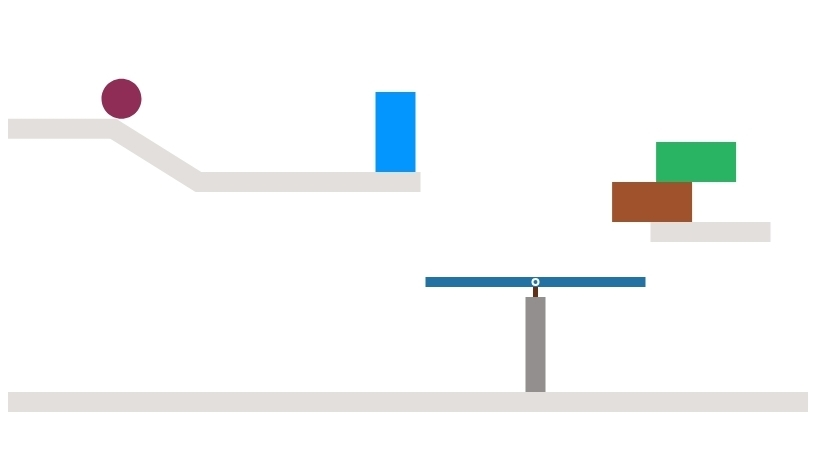
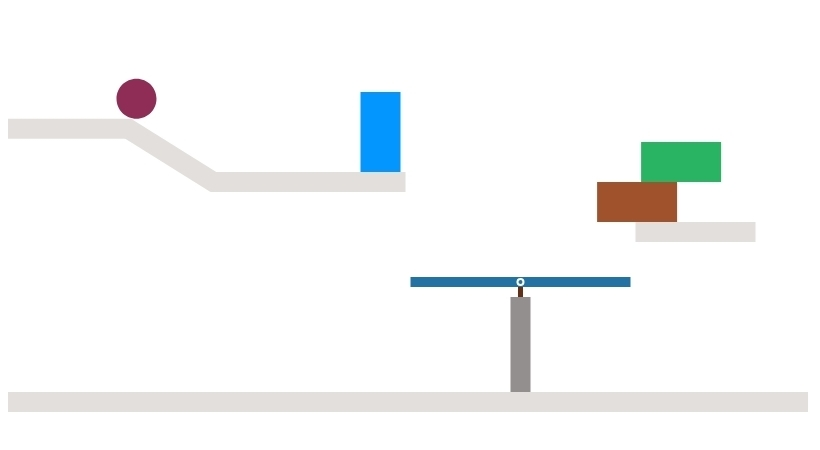
final updates grammar, fixed because of space clickable colors reduced to one if other already used instructions updated included color vision task

diff --git a/03_custom_views_templates.js b/03_custom_views_templates.js
@@ -213,11 +213,6 @@ const fridge_generator = {
         })
         .join('')
     }
-    let wordArray1 = ["maybe", "likely", "probably", "only", "rather"]
-    let wordArray2 = ["not", "neither", "nor", "no", "won't", "but"]
-    let wordArray3 = ["if", "and", "or", "to", "due to", "because of", "the"]
-    let wordArray4 = ["block", "blocks", "green", "blue", "red", "yellow", "both"]
-    let wordArray5 = ["fall", "falls", "will", "cause", "causes", "make", "makes", "do", "does"]
     return `<div class = "fix-box"> <div class="fridge">` +
       // return_word_array(wordArray1, "magpie-view-button green") +
       // return_word_array(wordArray2, "red") + return_word_array(wordArray3, "blue") + return_word_array(wordArray4, "purple") +
@@ -278,8 +273,7 @@ const fridge_generator = {
           .trim();
         sentence_array.push(value)
 
-        let poss_next = update_clickables(value);
-
+        let poss_next = update_clickables(value, sentence_array);
         $(".selected-words")
           .append(" " + value)
           // Important for displaying sentence built so far
@@ -302,7 +296,7 @@ const fridge_generator = {
         //update for synchronizing with what is shown in textbox
         config.data[CT].sentence = sentence;
         let value = _.last(sentence_array)
-        let poss_next = update_clickables(value);
+        let poss_next = update_clickables(value, sentence_array);
         checkBuildSentence(sentence_array, poss_next, submitbutton);
       });
 
@@ -335,7 +329,7 @@ const fridge_generator = {
         .removeClass("magpie-nodisplay");
       toggleNextIfDone($("#customWords"), true);
       toggleNextIfDone($("#buttonNext"), true);
-      update_clickables('', true);
+      update_clickables('', sentence_array, true);
       submitbutton.addClass("magpie-nodisplay");
       $("#buttonDelete")
         .addClass("magpie-nodisplay");

diff --git a/05_views.js b/05_views.js
@@ -45,9 +45,9 @@ const intro = magpieViews.view_generator("intro", {
   buttonText: "begin the experiment"
 });
 
-const instructions_general = magpieViews.view_generator("instructions", {
+const instructions_color_vision = magpieViews.view_generator("instructions", {
   trials: 1,
-  name: "instructions_general",
+  name: "instructions_color_vision",
   title: "General Instructions",
   text: `In this experiment you are shown pictures of different arrangements of
           blocks.
@@ -57,11 +57,20 @@ const instructions_general = magpieViews.view_generator("instructions", {
          In total, you will need about <b>15-20 minutes</b> to finish it.
          <br/>
          <br/>
-         We will start with the training phase
-         which consists of <b>15</b> trials. You will see block arrangements similar
-         to those you will be shown later in the test phase, such that you are
-         able to develop intuitions about the physical properties and get
-         familiar with the stimuli.
+         We will start the training phase with four simple questions concerning
+         the color of the blocks we will show you. Please click on <b>CONITINUE</b>
+         to proceed with the questions.`,
+  buttonText: "continue"
+});
+
+const instructions_general = magpieViews.view_generator("instructions", {
+  trials: 1,
+  name: "instructions_general",
+  title: "General Instructions",
+  text: `We will now start the actual training phase which consists of <b>15</b>
+         trials. You will see block arrangements similar to those you will be
+         shown later in the test phase, such that you are able to develop
+         intuitions about the physical properties and get familiar with the stimuli.
          <br/>
          <br/>
          <b>Please note</b>:

diff --git a/stimuli/05_train_stimuli.js b/stimuli/05_train_stimuli.js
@@ -78,7 +78,7 @@ trials_ramp = function(){
       walls.push(base);
       let width = dir[id][idx] == 'horizontal' ? PROPS.blocks.h : PROPS.blocks.w
       let horiz = dir[id][idx] == 'horizontal';
-      let pr = priors[id][idx] != "low" ? "default" : horiz ? "low" : "default";
+      let pr = !(priors[id][idx].startsWith("low")) ? "default" : horiz ? "low" : "default";
       let prop_on_base = (width + DIST_EDGE[pr]) / width;
       let block = blockOnBase(base, prop_on_base, colors[id][idx],
                               "block"+idx, horiz);
@@ -172,12 +172,12 @@ trials_ssw = function(){
                   'ssw1': BLOCK_COLS_SHORT.train[0]}
   data = {};
 
-  let objs = Walls.train.ssw();
-  let xblock = blockOnBase(objs.walls[1], -PRIOR.horizontal.uncertainL,
-    cols.sienna, "Xblock", true);
-  let xblock2 = blockOnBase(objs.walls[0], -PRIOR.vertical.uncertainL,
-    cols.sienna, "Xblock2", false);
   _.keys(prior).forEach(function(id, i){
+    let objs = Walls.train.ssw();
+    let xblock = blockOnBase(objs.walls[1], -PRIOR.horizontal.uncertainL,
+      cols.sienna, "Xblock", true);
+    let xblock2 = blockOnBase(objs.walls[0], -PRIOR.vertical.uncertainL,
+      cols.sienna, "Xblock2", false);
     let b1 = blockOnBase(objs.walls[0], PRIOR[dir[id][0]][prior[id][0]],
       color[id][0], 'blockC', dir[id][0] == 'horizontal');
 

diff --git a/04_trials_utils.js b/04_trials_utils.js
@@ -99,19 +99,24 @@ pseudoRandomTestTrials = function(){
 }
 
 // save trial data to make it accessible in magpie experiment
-const shuffled_test_ids = pseudoRandomTestTrials();
-let test_ids = _.map(slider_rating_trials, 'id');
-let TEST_TRIALS = [];
-shuffled_test_ids.forEach(function(id){
-  let idx = _.lastIndexOf(test_ids, id)
-  if(idx === -1) {
-    let kind = id.slice(0, _.lastIndexOf(id, "_"));
-    let ps = id.slice(_.lastIndexOf(id, "_") + 1);
-    console.warn('Test trial with id: ' + id + ' not found.')
-  }
-  // console.log(id + ' ' + idx)
-  TEST_TRIALS.push(slider_rating_trials[idx]);
-});
+let shuffleTestTrials = function(trial_data){
+  let shuffled_trials = [];
+  let test_ids = _.map(trial_data, 'id');
+  const shuffled_test_ids = pseudoRandomTestTrials();
+  shuffled_test_ids.forEach(function(id){
+    let idx = _.lastIndexOf(test_ids, id)
+    if(idx === -1) {
+      let kind = id.slice(0, _.lastIndexOf(id, "_"));
+      let ps = id.slice(_.lastIndexOf(id, "_") + 1);
+      console.warn('Test trial with id: ' + id + ' not found.')
+    }
+    // console.log(id + ' ' + idx)
+    shuffled_trials.push(trial_data[idx]);
+  });
+  return shuffled_trials;
+}
+const TEST_TRIALS = shuffleTestTrials(slider_rating_trials);
+const FRIDGE_TRIALS = shuffleTestTrials(fridge_trials);
 
 
 if (DEBUG){

diff --git a/02_custom_functions.js b/02_custom_functions.js
@@ -231,22 +231,31 @@ checkBuildSentence = function (sentenceArray, poss_next, button2Toggle) {
   }
 }
 
-update_clickables = function (lastSelected, submitted=false) {
+update_clickables = function (last_selected, all_selected, submitted=false) {
   WORDS.forEach(function (word) {
     $("#" + word.replace(/\s/g, ''))
     .addClass('not-clickable');
   })
-  if(!lastSelected) {
-    lastSelected = 'S'
+  if(!last_selected) {
+    last_selected = 'S'
   }
   if (submitted) {
     return [];
   } else {
-    let poss_words = shownNext(lastSelected);
+    let poss_words = shownNext(last_selected);
     poss_words.forEach(function (word) {
+      word = word.replace(/\s/g, '');
       $("#" + word)
       .toggleClass('not-clickable');
     });
+    let c1 = BLOCK_COLS.test[0];
+    let c2 = BLOCK_COLS.test[1];
+    let col_unclickable = poss_words.includes(c1) && poss_words.includes(c2) ?
+      (all_selected.includes(c1) ? c1 : (all_selected.includes(c2) ? c2 : '')) : '';
+    if(col_unclickable != '') {
+      $("#" + col_unclickable).toggleClass('not-clickable');
+    }
+    poss_words = _.without(poss_words, col_unclickable);
     return poss_words
   }
 }

diff --git a/stimuli/grammar.js b/stimuli/grammar.js
@@ -19,20 +19,22 @@ let GRAMMAR_RULE = {
   'MOD': ['the', 'both', 'if', 'V_AUX', 'V_AUX_I', 'V', 'V_I', 'MOD', 'not', 'AUX'],
   'the': ['COL'],
   'if': ['the', 'and'],
-  'DET_N': ['the'],
+  'DET_N': ['the', 'both'],
   'COL': ['block', 'nor', 'CONJ'],
-  'both': ['blocks'],
-  'blocks': ['will', 'fall'],
-  'block': ['to', 'AUX', 'nor', 'V', 'V_AUX', 'V_I', 'MOD', 'CONJ'],
+  'both': ['blocks', 'the'],
+  'blocks': ['will', 'fall', 'MOD'],
+  'block': ['to', 'AUX', 'nor', 'V', 'V_AUX', 'V_I', 'MOD', 'CONJ', 'or'],
   'AUX': ['MOD', 'not', 'V_I', 'V_AUX_I', 'both'],
   'not': ['V_I', 'V_AUX_I', 'the'],
-  'and': ['the', 'MOD', 'V_AUX'],
+  'and': ['the', 'MOD', 'V_AUX', 'V_AUX_I'],
   'but': ['not', 'the'],
-  'V_I': ['CONJ', 'the', 'also', 'nor', 'if', 'either'],
-  'V': ['CONJ', 'the', 'also', 'if'],
+  'V_I': ['CONJ', 'the', 'also', 'nor', 'if', 'either', 'or'],
+  'V': ['CONJ', 'the', 'also', 'if', 'or'],
   'V_AUX_I': ['the'],
   'V_AUX': ['the'],
-  'to': ['fall']
+  'or': ['the', 'both'],
+  'to': ['fall'],
+  'because of': ['the']
 }
 
 let word_groups = [

diff --git a/04_trials.js b/04_trials.js
@@ -354,8 +354,8 @@ let INSTRUCTION_SLIDER = [{
 }];
 // ----- FRIDGE TRIALS ---- //
 // fridge trials have the same input data slider_rating_trials
-let FRIDGE_TRIALS = _.cloneDeep(slider_rating_trials)
-FRIDGE_TRIALS = _.map(FRIDGE_TRIALS, function (trial, i) {
+let fridge_trials = _.cloneDeep(slider_rating_trials)
+fridge_trials = _.map(fridge_trials, function (trial, i) {
   ['question1', 'question2', 'question3', 'question4',
    'response3', 'response4',
    'optionLeft', 'optionRight', 'expected'].forEach(function(key){
@@ -368,7 +368,7 @@ FRIDGE_TRIALS = _.map(FRIDGE_TRIALS, function (trial, i) {
 });
 
 
-let fridge_ex = Object.assign({}, FRIDGE_TRIALS[0])
+let fridge_ex = Object.assign({}, fridge_trials[0])
 fridge_ex.picture = "stimuli/img/train_slider_fridge/ind2_test_colors.jpg";
 fridge_ex.id = id_slider
 const TRAIN_FRIDGE_TRIALS = [fridge_ex];

diff --git a/stimuli/01_config.js b/stimuli/01_config.js
@@ -56,8 +56,8 @@ let PRETEST_ANGLES = _.range(45);
 let BASE_RAMP = {
   'horizontal': {'high': 125, 'uncertainH': 160, 'uncertain': 180,
                  'uncertainL': 200, 'low': 240},
-  'vertical': {'high': 140, 'uncertainH': 210, 'uncertain': 225,
-               'uncertainL': 250, 'low': 290},
+  'vertical': {'high': 140, 'uncertainH': 190, 'uncertain': 195,
+               'uncertainL': 230, 'low': 290},
   'default': 200
 };
 

diff --git a/06_main.js b/06_main.js
@@ -17,8 +17,9 @@ $("document")
       // You have to specify all views you want to use in this experiment and the order of them
       views_seq: [
       intro,
+      instructions_color_vision,
+      sentence_choice_custom,
       instructions_general,
-      // sentence_choice_custom,
       instructions_train,
       animation_view,
       // instruction_slider_example,
